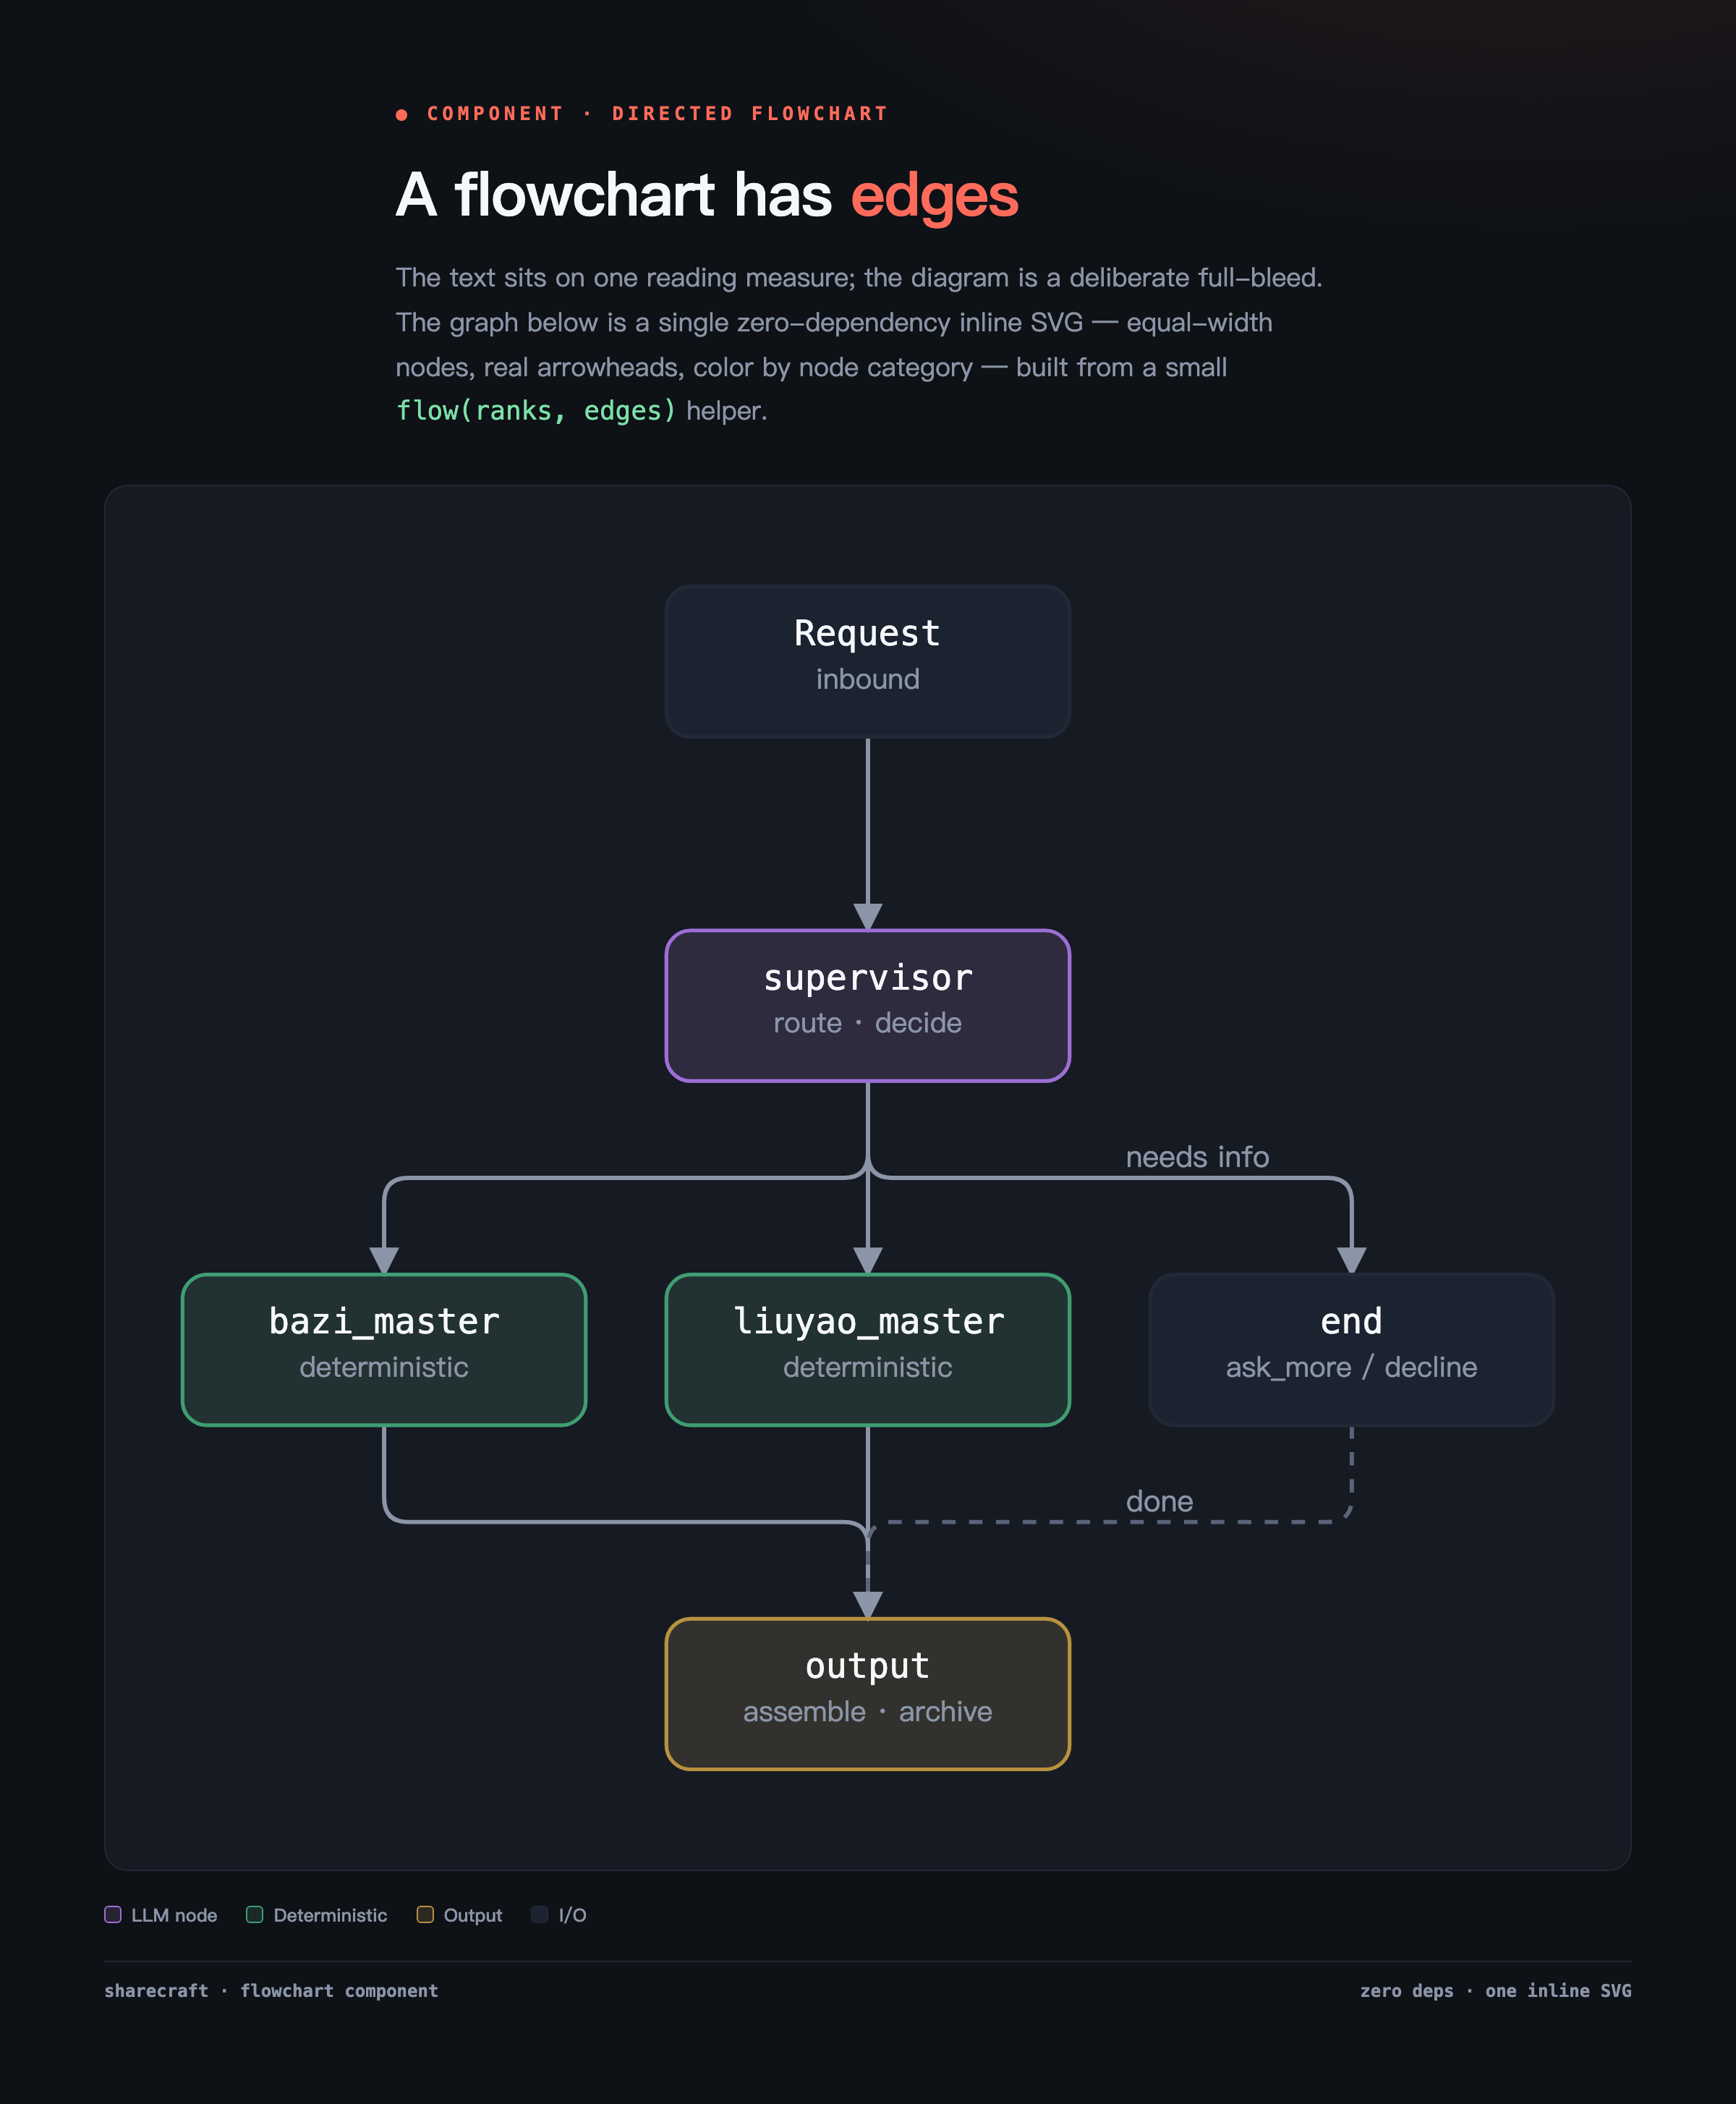
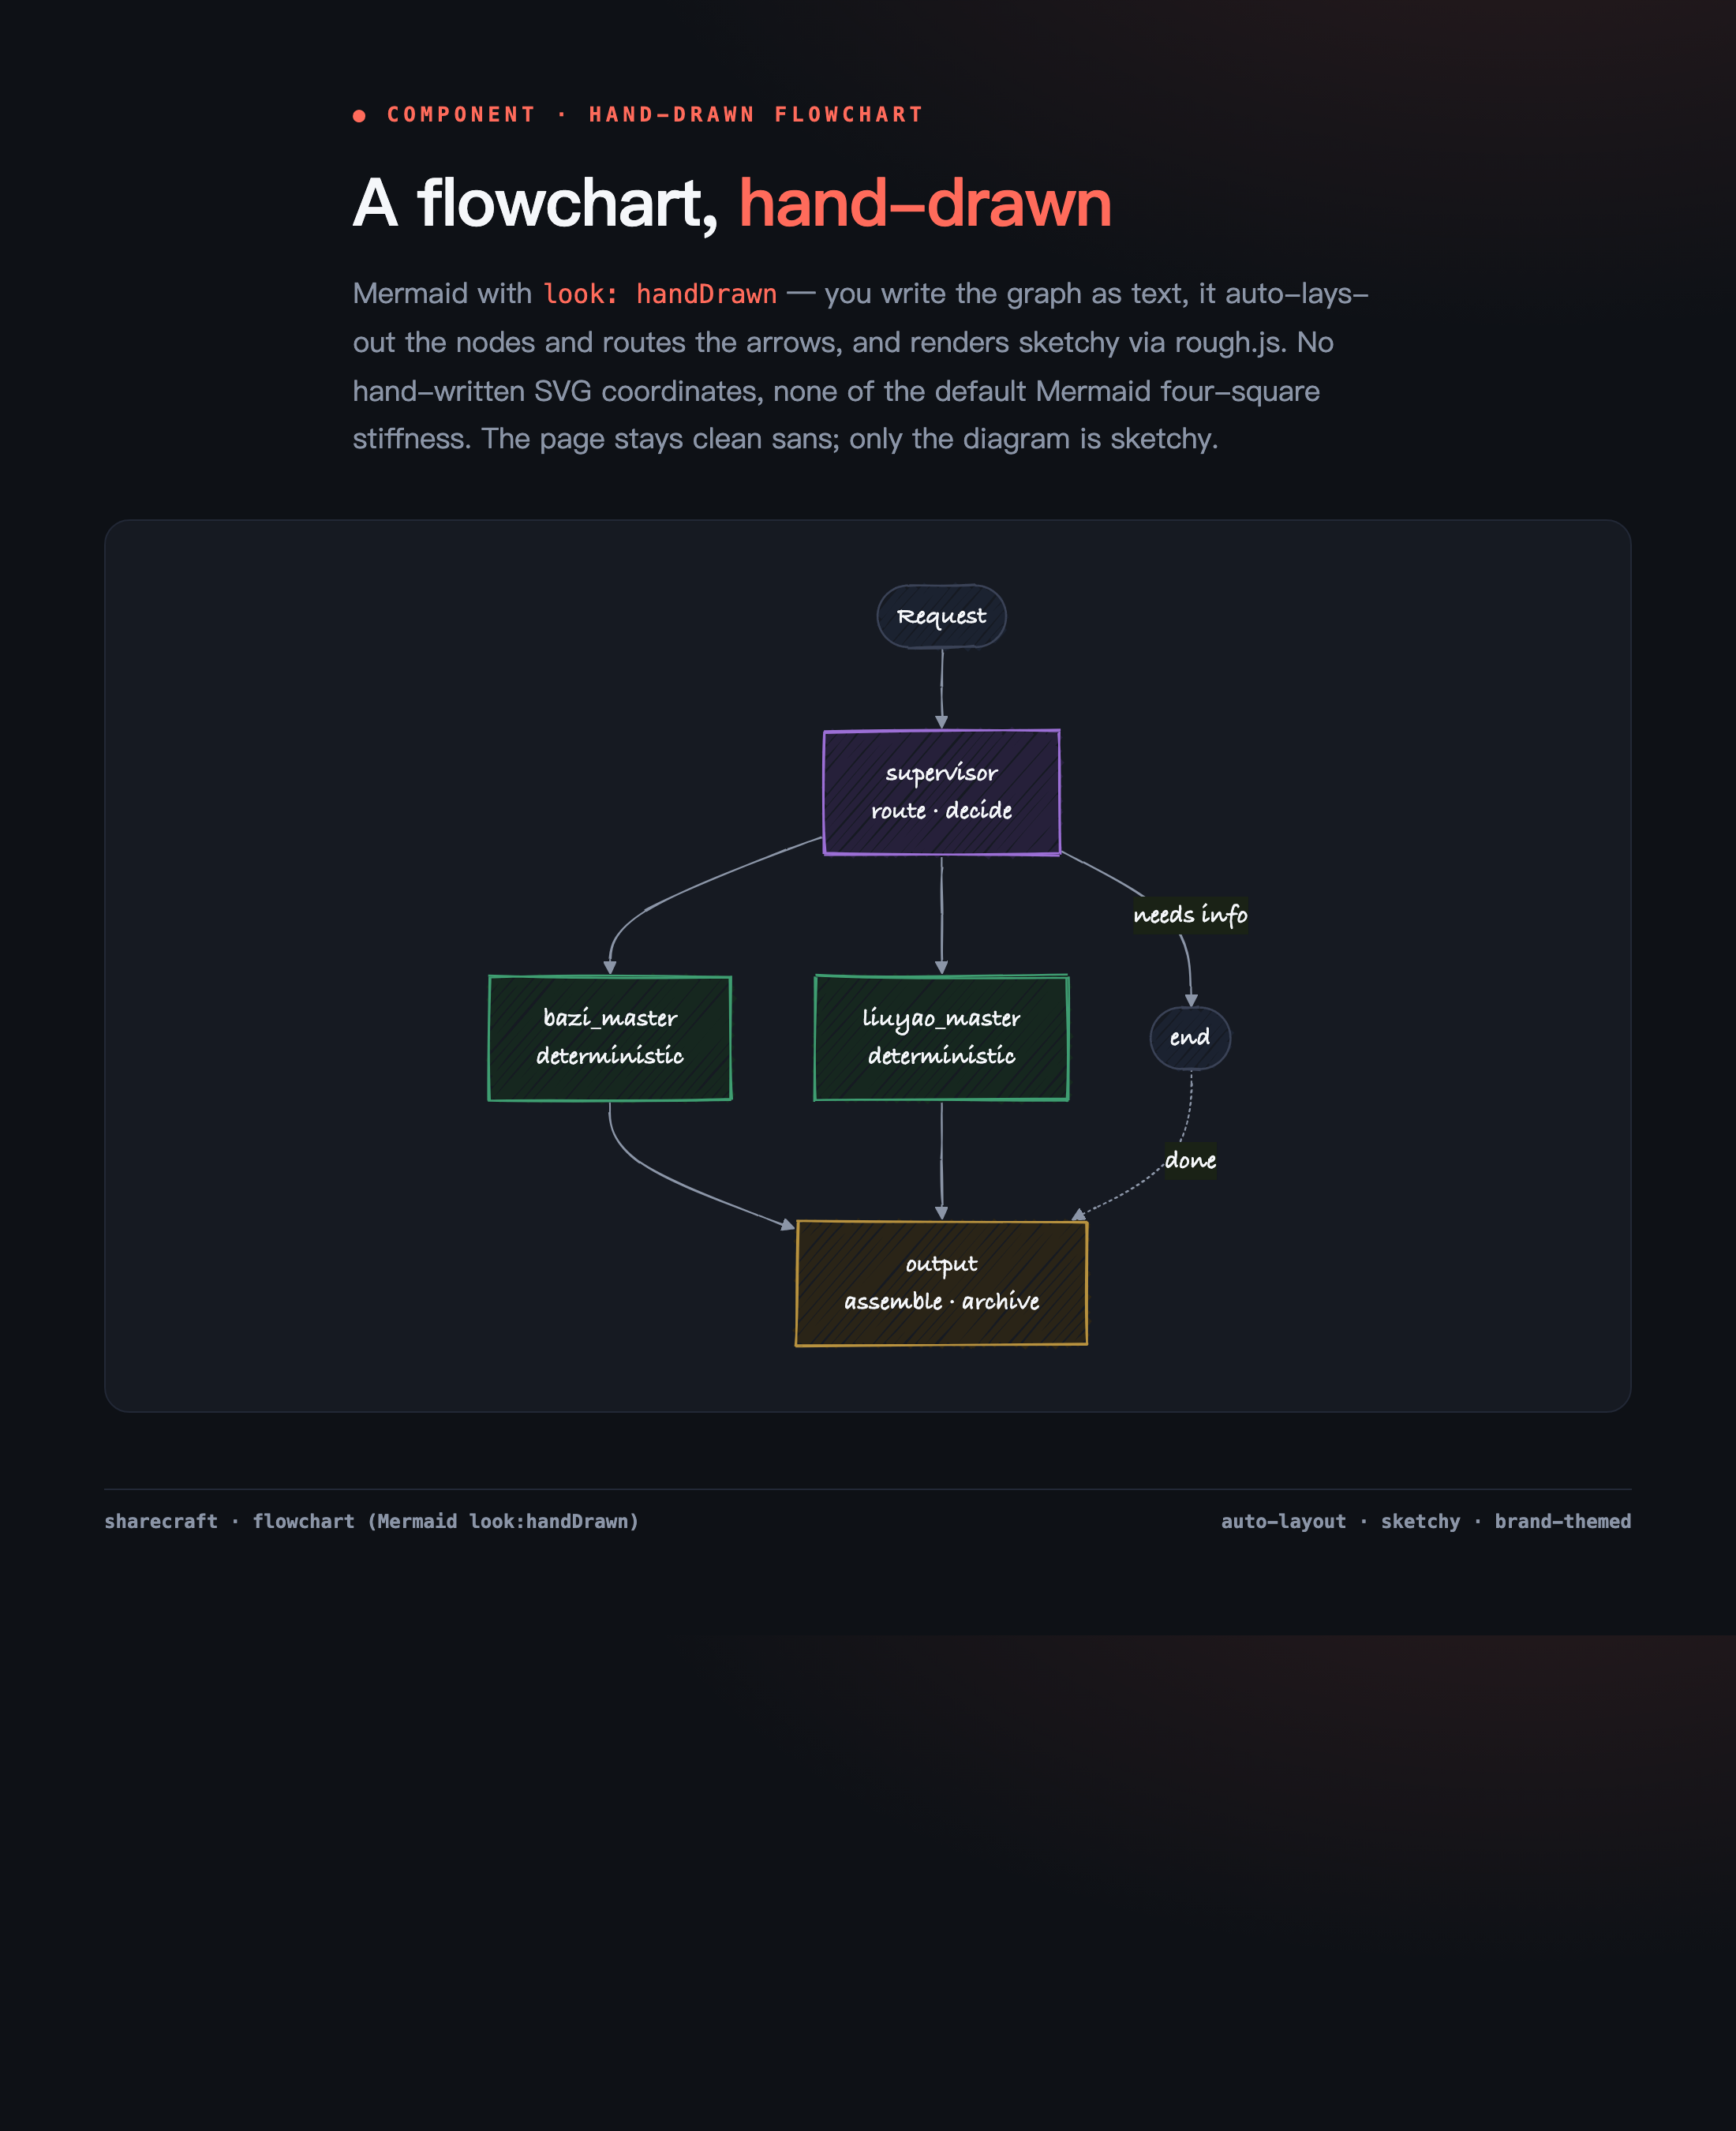
design-system: flowchart default = Mermaid look:handDrawn (drop hand-written SVG)
Feedback chain: Mermaid+ELK looks bad; a hand-written SVG component is too complex
and error-prone. Resolution: go hand-drawn — Mermaid look:'handDrawn'. It's the
rare case Mermaid is right: you write text (no SVG coordinate math, hard to get
wrong), it auto-lays-out + routes arrows, and the rough.js sketchy look removes the
stiff 'generated' feel that made default Mermaid look cheap.

- §4 rewritten: handDrawn is the default; theme to tokens; startOnLoad:false +
  await run + --wait 2500; keep page chrome clean sans, only the diagram sketchy.
  Excalidraw/draw.io export for fully-offline/one-off. Removed the SVG flow()
  component entirely.
- examples/flow-diagram.html re-done with handDrawn; re-rendered + verified.
- §6 override table + §7 checklist + README updated to match.

diff --git a/examples/flow-diagram.html b/examples/flow-diagram.html
@@ -3,138 +3,73 @@
 <head>
 <meta charset="utf-8">
 <meta name="viewport" content="width=device-width, initial-scale=1">
-<title>Flowchart component — directed edges, zero deps | sharecraft</title>
+<title>Flowchart — hand-drawn, auto-laid-out | sharecraft</title>
 <style>
   :root{
-    --bg:#0E1116; --surface:#161A22; --surface-2:#1B2230; --line:#222836;
-    --fg:#F5F7FA; --ink:#C7CEDB; --muted:#8B95A7; --faint:#5A647A;
-    --accent:#FF6B5B; --green:#7BE0A8; --amber:#E5C07B; --blue:#7BC8FF; --purple:#C792EA;
+    --bg:#0E1116; --surface:#161A22; --line:#222836;
+    --fg:#F5F7FA; --muted:#8B95A7; --accent:#FF6B5B;
     --sans:-apple-system,"SF Pro Display","PingFang SC","Helvetica Neue",Arial,sans-serif;
     --mono:"JetBrains Mono","SF Mono",Menlo,Consolas,monospace;
-    --measure:68ch; --wide:1120px;
-    --r:10px; --s4:16px; --s5:24px; --s6:32px;
+    --measure:68ch; --wide:1000px; --r:16px; --s4:16px; --s5:24px; --s6:32px;
   }
   *{margin:0;padding:0;box-sizing:border-box}
   body{background:radial-gradient(1000px 560px at 88% -12%,rgba(255,107,91,.12),transparent 60%),var(--bg);
-    color:var(--fg); font-family:var(--sans); line-height:1.7; padding:6vmin; display:flex; flex-direction:column; align-items:center;}
+    color:var(--fg); font-family:var(--sans); line-height:1.7; padding:6vmin;
+    display:flex; flex-direction:column; align-items:center;}
   .kicker{font:600 13px/1 var(--mono); letter-spacing:.22em; text-transform:uppercase; color:var(--accent);}
   h1{font-size:clamp(28px,4.4vw,42px); font-weight:800; letter-spacing:-.02em; margin:.3em 0 .2em;}
-  /* §2 — text rides the reading measure; the diagram is deliberate full-bleed */
+  /* page chrome is product-register (clean sans, one measure); only the diagram is hand-drawn */
   .col{width:min(var(--measure),100%);}
   .col p{color:var(--muted); font-size:clamp(15px,2.2vw,18px); margin:.2em 0;}
+  .col code{font-family:var(--mono); color:var(--accent); font-size:.92em;}
   .figure{width:min(var(--wide),100%); margin:var(--s6) 0 var(--s5);
-    background:var(--surface); border:1px solid var(--line); border-radius:16px; padding:var(--s6) var(--s4);}
-  /* flowchart component */
-  svg.flow{width:100%; height:auto; display:block; font-family:var(--mono);}
-  .flow .edge{fill:none; stroke:var(--muted); stroke-width:1.6;}
-  .flow .edge.dim{stroke:var(--faint); stroke-dasharray:5 5;}
-  .flow .elabel{fill:var(--muted); font-size:11px; font-family:var(--sans);}
-  .flow .node rect{rx:9; stroke-width:1.4;}
-  .flow .node .nm{fill:var(--fg); font-size:13px; font-weight:500;}
-  .flow .node .sub{fill:var(--muted); font-size:10.5px; font-family:var(--sans);}
-  .k-in   rect{fill:var(--surface-2); stroke:var(--line);}
-  .k-llm  rect{fill:rgba(199,146,234,.14); stroke:#9c6fd6;}
-  .k-core rect{fill:rgba(123,224,168,.12); stroke:#3f9e72;}
-  .k-io   rect{fill:var(--surface-2); stroke:var(--line);}
-  .k-out  rect{fill:rgba(229,192,123,.14); stroke:#b8923f;}
-  .legend{width:min(var(--wide),100%); display:flex; gap:20px; flex-wrap:wrap; font:500 12.5px/1 var(--sans); color:var(--muted);}
-  .legend .d{display:inline-block; width:12px; height:12px; border-radius:3px; margin-right:7px; vertical-align:-1px; border:1px solid;}
+    background:var(--surface); border:1px solid var(--line); border-radius:var(--r); padding:var(--s6) var(--s4);}
+  .mermaid{display:flex; justify-content:center;}
   footer{width:min(var(--wide),100%); margin-top:var(--s5); border-top:1px solid var(--line); padding-top:14px;
     display:flex; justify-content:space-between; color:var(--muted); font:600 12px/1 var(--mono);}
 </style>
 </head>
 <body>
   <div class="col">
-    <div class="kicker">● Component · directed flowchart</div>
-    <h1>A flowchart has <span style="color:var(--accent)">edges</span></h1>
-    <p>The text sits on one reading measure; the diagram is a deliberate full-bleed. The graph below is a
-      single zero-dependency inline SVG — equal-width nodes, real arrowheads, color by node category — built
-      from a small <code style="font-family:var(--mono);color:var(--green)">flow(ranks, edges)</code> helper.</p>
+    <div class="kicker">● Component · hand-drawn flowchart</div>
+    <h1>A flowchart, <span style="color:var(--accent)">hand-drawn</span></h1>
+    <p>Mermaid with <code>look:&nbsp;handDrawn</code> — you write the graph as text, it auto-lays-out the
+      nodes and routes the arrows, and renders sketchy via rough.js. No hand-written SVG coordinates, none
+      of the default Mermaid four-square stiffness. The page stays clean sans; only the diagram is sketchy.</p>
   </div>
 
   <div class="figure">
-    <svg id="flow" class="flow" role="img" aria-label="Orchestration flow: request to supervisor to specialists to output"></svg>
+    <pre class="mermaid">
+flowchart TD
+  REQ([Request]):::io --> SUP[supervisor<br/>route · decide]:::llm
+  SUP --> BAZI[bazi_master<br/>deterministic]:::core
+  SUP --> LIU[liuyao_master<br/>deterministic]:::core
+  SUP -->|needs info| END([end]):::io
+  BAZI --> OUT[output<br/>assemble · archive]:::out
+  LIU --> OUT
+  END -.done.-> OUT
+  classDef llm fill:#26203a,stroke:#9c6fd6,color:#F5F7FA;
+  classDef core fill:#16271f,stroke:#3f9e72,color:#F5F7FA;
+  classDef out fill:#2a2417,stroke:#b8923f,color:#F5F7FA;
+  classDef io fill:#1B2230,stroke:#3a4256,color:#F5F7FA;
+    </pre>
   </div>
-  <div class="legend">
-    <span><span class="d" style="background:rgba(199,146,234,.14);border-color:#9c6fd6"></span>LLM node</span>
-    <span><span class="d" style="background:rgba(123,224,168,.12);border-color:#3f9e72"></span>Deterministic</span>
-    <span><span class="d" style="background:rgba(229,192,123,.14);border-color:#b8923f"></span>Output</span>
-    <span><span class="d" style="background:var(--surface-2);border-color:var(--line)"></span>I/O</span>
-  </div>
-  <footer><span>sharecraft · flowchart component</span><span>zero deps · one inline SVG</span></footer>
+  <footer><span>sharecraft · flowchart (Mermaid look:handDrawn)</span><span>auto-layout · sketchy · brand-themed</span></footer>
 
-<script>
-  // ---- reusable directed-flowchart renderer (zero deps) -------------------
-  // ranks: array of rows; each row = array of {id,label,sub,kind}. edges: [from,to,label?,dim?]
-  const RANKS = [
-    [{id:'req', label:'Request', sub:'inbound', kind:'in'}],
-    [{id:'sup', label:'supervisor', sub:'route · decide', kind:'llm'}],
-    [{id:'bazi',label:'bazi_master', sub:'deterministic', kind:'core'},
-     {id:'liu', label:'liuyao_master',sub:'deterministic', kind:'core'},
-     {id:'end', label:'end', sub:'ask_more / decline', kind:'io'}],
-    [{id:'out', label:'output', sub:'assemble · archive', kind:'out'}],
-  ];
-  const EDGES = [
-    ['req','sup'], ['sup','bazi'], ['sup','liu'], ['sup','end','needs info'],
-    ['bazi','out'], ['liu','out'], ['end','out','done',true],
-  ];
-
-  const NS='http://www.w3.org/2000/svg';
-  const H=56, HGAP=30, VGAP=72, PAD=20;
-  function el(t,a){const n=document.createElementNS(NS,t);for(const k in a)n.setAttribute(k,a[k]);return n;}
-
-  function flow(svg, ranks, edges){
-    // equal width for ALL nodes, sized to the longest label so nothing overflows (no fixed cap)
-    const longest = Math.max(...ranks.flat().map(n => (n.label||'').length));
-    const W = Math.max(150, Math.round(longest*8.6 + 28));
-    const rowW = ranks.map(r => r.length*W + (r.length-1)*HGAP);
-    const maxW = Math.max(...rowW);
-    const vbW = maxW + PAD*2, vbH = ranks.length*H + (ranks.length-1)*VGAP + PAD*2;
-    svg.setAttribute('viewBox', `0 0 ${vbW} ${vbH}`);
-
-    // arrowhead marker
-    const defs = el('defs',{});
-    const mk = el('marker',{id:'arrow',viewBox:'0 0 10 10',refX:9,refY:5,markerWidth:7,markerHeight:7,orient:'auto-start-reverse'});
-    mk.appendChild(el('path',{d:'M0,0 L10,5 L0,10 z',fill:'var(--muted)'}));
-    defs.appendChild(mk); svg.appendChild(defs);
-
-    // position every node, equal width, each rank centered
-    const pos={};
-    ranks.forEach((row,ri)=>{
-      const startX = PAD + (maxW - rowW[ri])/2;
-      const y = PAD + ri*(H+VGAP);
-      row.forEach((n,ci)=>{ pos[n.id] = {x:startX + ci*(W+HGAP), y, n}; });
-    });
-
-    // edges first (under nodes)
-    const eLayer = el('g',{}); svg.appendChild(eLayer);
-    edges.forEach(([from,to,label,dim])=>{
-      const s=pos[from], t=pos[to]; if(!s||!t) return;
-      const sx=s.x+W/2, tx=t.x+W/2;
-      let d, sy, ty;
-      if (t.y > s.y){ sy=s.y+H; ty=t.y; }      // forward (downward)
-      else { sy=s.y; ty=t.y+H; }                // back-edge (upward)
-      const my=(sy+ty)/2, r=9, dir=tx>sx?1:(tx<sx?-1:0);
-      // orthogonal (elbow) connector with rounded corners — the Stripe/Linear "engineered" look
-      d = dir===0
-        ? `M${sx},${sy} L${tx},${ty}`
-        : `M${sx},${sy} L${sx},${my-r} Q${sx},${my} ${sx+dir*r},${my} L${tx-dir*r},${my} Q${tx},${my} ${tx},${my+r} L${tx},${ty}`;
-      eLayer.appendChild(el('path',{class:'edge'+(dim?' dim':''),d,'marker-end':'url(#arrow)'}));
-      if(label){ eLayer.appendChild(Object.assign(el('text',{class:'elabel',x:(sx+tx)/2+6,y:my-4}),{textContent:label})); }
-    });
-
-    // nodes
-    ranks.flat().forEach(n=>{
-      const {x,y}=pos[n.id];
-      const g=el('g',{class:`node k-${n.kind}`});
-      g.appendChild(el('rect',{x,y,width:W,height:H}));
-      const nm=el('text',{class:'nm',x:x+W/2,y:y+(n.sub?22:32),'text-anchor':'middle'}); nm.textContent=n.label;
-      g.appendChild(nm);
-      if(n.sub){ const s=el('text',{class:'sub',x:x+W/2,y:y+38,'text-anchor':'middle'}); s.textContent=n.sub; g.appendChild(s); }
-      svg.appendChild(g);
-    });
+<script type="module">
+import mermaid from 'https://cdn.jsdelivr.net/npm/mermaid@11/dist/mermaid.esm.min.mjs';
+// look:'handDrawn' + explicit run() (ESM import finishes after DOMContentLoaded, so startOnLoad would miss)
+mermaid.initialize({
+  startOnLoad:false,
+  look:'handDrawn',
+  theme:'base',
+  themeVariables:{
+    background:'#0E1116', primaryColor:'#161A22', primaryBorderColor:'#222836',
+    primaryTextColor:'#F5F7FA', lineColor:'#8B95A7', tertiaryColor:'#161A22',
+    fontFamily:'"Segoe Print","Bradley Hand","Comic Sans MS",cursive'
   }
-  flow(document.getElementById('flow'), RANKS, EDGES);
+});
+await mermaid.run();
 </script>
 </body>
 </html>

diff --git a/references/design-system.md b/references/design-system.md
@@ -135,94 +135,58 @@ inconsistent). Pick a renderer:
 
 ## 4. Diagrams & flowcharts
 
-A flowchart's whole job is showing **direction**. The most common failure (seen in real generated docs)
-is nodes stacked as bare `<div>`s with no edges, leaving the reader to guess the flow.
+A flowchart's whole job is showing **direction**. Two failure modes to avoid at once: nodes stacked as
+bare `<div>`s with no edges (no direction), and the default Mermaid/dagre look — evenly-spaced,
+intent-less, the four-square shape everyone's AI emits (generic). The fix kills both.
 
-- **A flowchart must have directed edges.** Real connecting lines with arrowheads; the direction reads
-  at a glance. Stacking boxes and hoping proximity implies order is not a flowchart.
-- **Same-rank nodes are the same width**, aligned on a grid. One color *per node category* (semantic,
-  not decorative) + a small legend. Kill chartjunk (Tufte): no 3D, no gradients on the boxes.
+- **Directed edges, always.** Real connecting lines with arrowheads; direction reads at a glance.
+- **One color *per node category*** (semantic, not decorative) + a small legend. Kill chartjunk (Tufte):
+  no 3D, no gradients on boxes.
 - A diagram is reusable across deck + card + video — author it once (`combine.md`).
-- **Connector style is the "designed vs generic" tell.** Soft beziers read casual; **orthogonal (elbow)
-  connectors with rounded corners** read engineered — the Stripe/Linear architecture-diagram look. The
-  component below uses orthogonal by default.
 
-**Why an auto-tool diagram looks "generic."** Mermaid/dagre auto-layout optimizes for *correct*, not
-*designed* — evenly spaced, no intent, the same shape everyone gets. Looking *intentional* means taking
-over the layout. The style spectrum, most-designed first:
+**Default — Mermaid in `look: 'handDrawn'`.** This is the rare case where Mermaid is the right answer:
+you write the graph as *text* (no hand-placed boxes, no SVG coordinate math — simple and hard to get
+wrong), Mermaid auto-lays-out the nodes and routes the arrows, and the **hand-drawn look** (rough.js
+under the hood) removes the stiff "generated" feel that makes default Mermaid look cheap. Sketchy reads
+as *intentional*, not lazy. Theme it to the tokens so it's on-brand. Working exemplar:
+[`examples/flow-diagram.html`](../examples/flow-diagram.html).
 
-1. **Hand-authored inline SVG, orthogonal edges** (Recipe A) — **the default for anything that ships.**
-   Most control, fits the tokens exactly, no CDN, can wire hover/interaction. Best for a polished,
-   precise architecture diagram (~10 nodes).
-2. **Mermaid** (Recipe B) — *quick internal sketches only.* It stays generated-looking even after
-   theming, and even with the ELK layout engine — **don't reach for Mermaid expecting polish.** If the
-   diagram ships, use Recipe A.
-3. **Hand-drawn (rough.js / Excalidraw)** — deliberately sketchy; a *brand-register* choice (§6) for
-   blogs/approachable decks, **not** for precise source-level technical docs.
-
-**Don't hand-place `<div>`s and hope.** Use one of two concrete renderers — both produce real arrowed
-edges. A rule with no component is why generated flowcharts regress to edgeless boxes.
-
-**Recipe A — zero-dependency inline SVG (default; stays single-file & offline).** Give it ranks (rows of
-nodes) + edges; it lays out equal-width nodes and draws arrowed paths. Full working component +
-exemplar: [`examples/flow-diagram.html`](../examples/flow-diagram.html) (rendered preview alongside).
-The core:
+It needs a CDN (so not fully offline) and renders async — **pass `--wait 2500`** to `html_to_image.py`,
+and use `startOnLoad:false` + `await mermaid.run()` (an ESM import finishes after DOMContentLoaded, so
+the `startOnLoad` hook would be missed and you'd capture raw source text).
 
 ```html
-<svg id="flow" class="flow"></svg>
-<style>
-  .flow .edge{fill:none;stroke:var(--muted);stroke-width:1.6}
-  .flow .edge.dim{stroke:var(--faint);stroke-dasharray:5 5}
-  .flow .node rect{rx:9;stroke-width:1.4}
-  .k-llm rect{fill:rgba(199,146,234,.14);stroke:#9c6fd6}   /* one fill per category */
-  .k-core rect{fill:rgba(123,224,168,.12);stroke:#3f9e72}
-</style>
-<script>
-const NS='http://www.w3.org/2000/svg',H=56,HGAP=30,VGAP=72,PAD=20;
-const el=(t,a)=>{const n=document.createElementNS(NS,t);for(const k in a)n.setAttribute(k,a[k]);return n};
-function flow(svg,ranks,edges){                       // ranks:[[{id,label,sub,kind}]], edges:[[from,to,label?,dim?]]
-  const W=Math.max(150,Math.round(Math.max(...ranks.flat().map(n=>(n.label||'').length))*8.6+28)); // equal width, fits longest label
-  const rowW=ranks.map(r=>r.length*W+(r.length-1)*HGAP), maxW=Math.max(...rowW);
-  svg.setAttribute('viewBox',`0 0 ${maxW+PAD*2} ${ranks.length*H+(ranks.length-1)*VGAP+PAD*2}`);
-  const defs=el('defs',{}),mk=el('marker',{id:'arrow',viewBox:'0 0 10 10',refX:9,refY:5,markerWidth:7,markerHeight:7,orient:'auto-start-reverse'});
-  mk.appendChild(el('path',{d:'M0,0 L10,5 L0,10 z',fill:'var(--muted)'}));defs.appendChild(mk);svg.appendChild(defs);
-  const pos={};ranks.forEach((row,ri)=>{const sx=PAD+(maxW-rowW[ri])/2,y=PAD+ri*(H+VGAP);
-    row.forEach((n,ci)=>pos[n.id]={x:sx+ci*(W+HGAP),y,n})});
-  edges.forEach(([f,t,label,dim])=>{const s=pos[f],d=pos[t];if(!s||!d)return;
-    const sx=s.x+W/2,tx=d.x+W/2,sy=d.y>s.y?s.y+H:s.y,ty=d.y>s.y?d.y:d.y+H,my=(sy+ty)/2,r=9,dir=Math.sign(tx-sx);
-    // orthogonal (elbow) connector w/ rounded corners — the "engineered" Stripe/Linear look
-    const path=dir===0?`M${sx},${sy} L${tx},${ty}`
-      :`M${sx},${sy} L${sx},${my-r} Q${sx},${my} ${sx+dir*r},${my} L${tx-dir*r},${my} Q${tx},${my} ${tx},${my+r} L${tx},${ty}`;
-    svg.appendChild(el('path',{class:'edge'+(dim?' dim':''),d:path,'marker-end':'url(#arrow)'}));
-    if(label){const l=el('text',{class:'elabel',x:(sx+tx)/2+6,y:my-4});l.textContent=label;svg.appendChild(l)}});
-  ranks.flat().forEach(n=>{const{x,y}=pos[n.id],g=el('g',{class:`node k-${n.kind}`});
-    g.appendChild(el('rect',{x,y,width:W,height:H}));
-    const nm=el('text',{class:'nm',x:x+W/2,y:y+(n.sub?22:32),'text-anchor':'middle'});nm.textContent=n.label;g.appendChild(nm);
-    if(n.sub){const s=el('text',{class:'sub',x:x+W/2,y:y+38,'text-anchor':'middle'});s.textContent=n.sub;g.appendChild(s)}
-    svg.appendChild(g)})}
-</script>
-```
-
-**Recipe B — Mermaid (quick internal sketches only; needs a CDN, so not truly offline).** Fine for a
-throwaway diagram while you think; **if it ships, use Recipe A** — Mermaid stays generated-looking even
-after theming (and ELK doesn't fix it). It must run in the headless renderer, so **add `--wait 1200`**
-to `html_to_image.py`. Self-contained-ish:
-
-```html
+<pre class="mermaid">
+flowchart TD
+  REQ([Request]):::io --> SUP[supervisor<br/>route · decide]:::llm
+  SUP --> BAZI[bazi_master]:::core
+  SUP -->|needs info| END([end]):::io
+  BAZI --> OUT[output]:::out
+  END -.done.-> OUT
+  classDef llm  fill:#26203a,stroke:#9c6fd6,color:#F5F7FA;
+  classDef core fill:#16271f,stroke:#3f9e72,color:#F5F7FA;
+  classDef out  fill:#2a2417,stroke:#b8923f,color:#F5F7FA;
+  classDef io   fill:#1B2230,stroke:#3a4256,color:#F5F7FA;
+</pre>
 <script type="module">
 import mermaid from 'https://cdn.jsdelivr.net/npm/mermaid@11/dist/mermaid.esm.min.mjs';
-// startOnLoad:false + explicit run() — an ESM import often finishes AFTER DOMContentLoaded,
-// so the startOnLoad hook is already missed and you'd get raw source text, not a diagram.
-mermaid.initialize({startOnLoad:false, theme:'base', themeVariables:{
-  background:'#0E1116', primaryColor:'#161A22', primaryBorderColor:'#222836',
-  primaryTextColor:'#F5F7FA', lineColor:'#8B95A7', fontFamily:'JetBrains Mono'}});
+mermaid.initialize({
+  startOnLoad:false, look:'handDrawn', theme:'base',
+  themeVariables:{ background:'#0E1116', primaryColor:'#161A22', primaryBorderColor:'#222836',
+    primaryTextColor:'#F5F7FA', lineColor:'#8B95A7',
+    fontFamily:'"Segoe Print","Bradley Hand","Comic Sans MS",cursive' }
+});
 await mermaid.run();
 </script>
-<pre class="mermaid">flowchart TD
-  A[Request] --> B{Cache hit?}
-  B -- yes --> C[Return cached]
-  B -- no --> D[Query + store]</pre>
 ```
+
+Keep the **page chrome clean sans** (one reading measure, §2) and let only the *diagram* be sketchy — the
+contrast is the point, not a sketchy whole page.
+
+**When this isn't enough.** For a fully-offline artifact (no CDN) or a one-off you want pixel-control
+over, draw it by hand in **Excalidraw** or **draw.io** and export a PNG/SVG — manual, but reliable and
+on-style. (Don't hand-author a bespoke SVG layout engine — it's a lot of fiddly coordinate code that
+breaks on the next edit; the whole point of the handDrawn default is to *not* do that.)
 
 **Rendering note — let async visuals settle.** Anything built at runtime — JS-generated SVG (the flow
 component), Mermaid, highlight.js, KaTeX, a canvas chart — paints *after* first load. When flattening to
@@ -277,7 +241,7 @@ over **one** specific thing. Each type has an **override point** (the switch tha
 
 | Type | What the default hands you | Override point (where to take over) | Cheap tell (generic giveaway) |
 |------|----------------------------|--------------------------------------|-------------------------------|
-| Flowchart | auto-layout (Mermaid/dagre) | layout + orthogonal connectors (§4) | bezier/no arrows/bare divs |
+| Flowchart | the stiff default Mermaid/dagre look | hand-drawn look + semantic node colors (§4) | default four-square Mermaid / bare divs / no arrows |
 | Code block | the highlighter's stock theme | tokens, restrained; whole-row highlight (§3) | neon palette / striping / clipping |
 | Chart | the lib's default theme | axes, palette, data-ink (Tufte) | chartjunk / default color cycle |
 | Card / poster | auto-flow, everything centered | a layout motif + one reading measure (§2) | ragged widths / all-centered / no focal point |
@@ -311,7 +275,7 @@ impeccable runs deterministic anti-pattern checks; these are ours.)
 
 - [ ] **One reading measure**, only `--measure` + `--wide` — no stray third width.
 - [ ] **Code**: desaturated strings, long lines wrap (not clipped), any highlight is whole-row and ≤3 lines; `pre code` reset so inline-code chips don't stripe the block.
-- [ ] **Flowchart**: directed edges with arrows; same-rank nodes equal width; legend present; not bare divs; connectors via flex/layout, not `position:absolute`.
+- [ ] **Flowchart**: directed edges with arrows; semantic node colors + legend; hand-drawn look (not the stiff default Mermaid), themed to tokens; never bare divs.
 - [ ] No **CSS leak** (scoped styles), no **absolute/fixed-size fragility** (flex over absolute; content can grow), no **async race** (explicit ready + `--wait`). — the three families above.
 - [ ] Not everything is a card; no card-in-card; hierarchy is visible.
 - [ ] Type hierarchy has real contrast (not 14/15/16px muddied together); ≥1.2 ratio between steps.

diff --git a/README.md b/README.md
@@ -52,7 +52,7 @@ Every artifact below was produced by the very tools Sharecraft drives — and sh
 
 ▶ live: [explorable](https://raw.githack.com/ma-pony/sharecraft/main/examples/explorable-area.html) · [scrollytelling](https://raw.githack.com/ma-pony/sharecraft/main/examples/scrolly-latency.html) · [chart](https://raw.githack.com/ma-pony/sharecraft/main/examples/chart-latency.html)
 
-**Flowchart component** — a zero-dependency inline-SVG flowchart from a small `flow(ranks, edges)` helper (the drop-in in [`design-system.md`](references/design-system.md) §4): real arrowed edges, equal-width nodes, color by category. The rule "*a flowchart needs directed edges*" only sticks when there's a component to render them — this is it:
+**Flowchart** — Mermaid in `look: 'handDrawn'`, themed to the tokens (the recipe in [`design-system.md`](references/design-system.md) §4): you write the graph as text, it auto-lays-out and routes the arrows, and the sketchy look sheds the stiff "generated" feel of default Mermaid — without hand-writing any SVG. Page chrome stays clean sans; only the diagram is hand-drawn:
 
 [![Flowchart component with directed edges](examples/flow-diagram.png)](https://raw.githack.com/ma-pony/sharecraft/main/examples/flow-diagram.html)
 